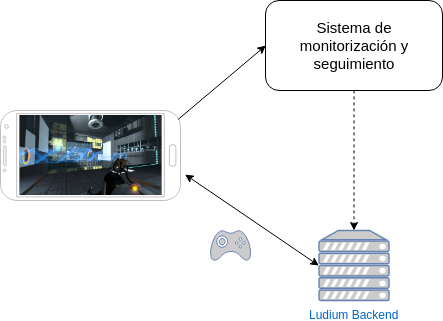
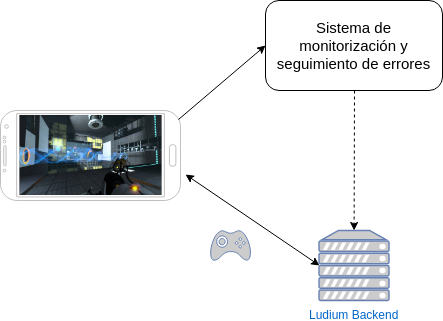
changes

diff --git a/introduccion.tex b/introduccion.tex
@@ -10,9 +10,9 @@
 
 Este proyecto es un Trabajo de Final de Grado de la modalidad B de la especialidad Tecnologías de la Información. El presente trabajo se hace en colaboración con la empresa LudiumLab S.L. la cual es propietaria y creadora del servicio de cloud gaming Play Everywhere. Este servicio consiste en permitir a sus usuarios jugar a juegos diseñados para Windows PC desde otros dispositivos como podrían ser smartphones, tabletas o navegadores web. 
 
-Dado que la empresa da servicio a dispositivos ubicuos, tiene la necesidad de recolectar y procesar alertas para que sus programadores corrijan comportamientos anómalos de la aplicación que se ejecuta en dichos dispositivos. Por lo que este trabajo será un caso de estudio para dar solución a la problemática de la empresa de recolectar y procesar alertas para darle información de valor a sus programadores.
+Dado que la empresa da servicio a dispositivos ubicuos, tiene la necesidad de recolectar y procesar eventos para que sus programadores corrijan comportamientos anómalos de la aplicación que se ejecuta en dichos dispositivos. Por lo que este trabajo será un caso de estudio para dar solución a la problemática de la empresa de recolectar y procesar eventos para darle información de valor a sus programadores.
 
-En la Figura \ref{fig:intro} se puede ver como un dispositivo ubicuo está jugando a un videojuego diseñado para Windows PC y se lo sirve el Backend de Ludium, este flujo de datos es el existente en la empresa. En la Figura \ref{fig:intro} también se ve otro flujo de datos que va del dispositivo ubicuo al Sistema de monitorización y seguimiento de errores, este flujo de datos es el que se va desarrollar en este trabajo. Existe un flujo de datos entre el Sistema de monitorización y seguimiento de errores, y el Backend de Ludium puesto que el sistema que se va a desarrollar se ha de integrar con ciertas partes del Backend de Ludium.
+En la Figura \ref{fig:intro} se puede ver como un dispositivo ubicuo está corriendo un videojuego diseñado para Windows PC, este videojuego realmente lo corre el Backend de Ludium y envía el video y el audio al dispositivo, el dispositivo ubicuo envía las acciones a realizar en el videojuego al Backend de Ludium, este flujo de datos es el existente en la empresa. En la Figura \ref{fig:intro} también se ve otro flujo de datos que va del dispositivo ubicuo al Sistema de monitorización y seguimiento de errores, este flujo de datos es el que se va desarrollar en este trabajo. Existe un flujo de datos entre el Sistema de monitorización y seguimiento de errores, y el Backend de Ludium puesto que el sistema que se va a desarrollar se ha de integrar con ciertas partes del Backend de Ludium.
 
 \section{Contexto}
 Las aplicaciones ubicuas \cite{Tfg:ubiquitous} se han convertido ya en una constante en la vida diaria. En especial las aplicaciones dirigidas a los smartphones. Cada día aparecen nuevas aplicaciones que hacen que la informática se integre en el entorno de la persona, apareciendo en cualquier lugar y en cualquier momento. Este hecho genera nuevos retos para los desarrolladores, como pudiera ser la detección y seguimiento de errores que puedan producirse en tales aplicaciones. Las aplicaciones ubicuas hoy día pueden ejecutarse en un gran número de dispositivos. Este trabajo se centrará en los smartphones y en especial en aquellos que ejecutan Android como sistema operativo.
@@ -29,7 +29,7 @@ Se encuentran dos arquitecturas de Big Data distinguidas que aplican las técnic
 
 Una es la arquitectura Lambda \cite{Tfg:lambda}, la cual integra las dos técnicas. Consta de tres capas lógicas, una capa de Batch Processing, otra de Stream Processing y una última capa donde se sirven los datos transformados.
 
-La otra es la arquitectura Kappa \cite{Tfg:kappa}, en la cual se utiliza únicamente Stream Processing. Consta de tres capas lógicas, una capa de Stream Processing, otra de almacenamiento persistente de datos y una última capa donde se sirven los datos transformados.
+La otra es la arquitectura Kappa \cite{Tfg:kappa}, en la cual se utiliza únicamente Stream Processing. Consta de tres capas lógicas, una capa de Stream Processing, otra de almacenamiento persistente de datos sin transformar y una última capa donde se sirven los datos transformados.
 
 \section{Descripción de los sistemas de alertas existentes en la empresa}
 En la empresa no existe un sistema de alertas como tal, pero sí que existen servidores con software de seguimiento de incidencias y servidores de búsqueda donde almacenar los datos procesados. En concreto, el software de seguimiento de incidencias que se utiliza es JIRA\cite{Tfg:jira} y el servidor de búsqueda Elastic Search\cite{Tfg:elasticsearch}. El sistema se integra tanto con JIRA como con Elastic Search.
@@ -39,5 +39,5 @@ En la empresa no existe un sistema de alertas como tal, pero sí que existen ser
 \input{alcance}
 
 \section{Estado del arte}
-En esta sección se muestra el estado del arte de dos partes fundamentales del sistema. Por un lado, la recolección de eventos en Android, y por otro el procesado de eventos. Al final de las sección, se muestran las conclusiones extraídas para la creación del sistema.
+En esta sección se muestra el estado del arte de dos partes fundamentales del sistema. Por un lado, la recolección de eventos en Android, y por otro el procesado de eventos. Al final de la sección, se muestran las conclusiones extraídas para la creación del sistema.
 \input{soa}

diff --git a/reproduccion.tex b/reproduccion.tex
@@ -8,10 +8,10 @@ Para adquirir esta herramienta se ha de rellenar un formulario en la siguiente w
 
 \href{https://www.confluent.io/download/}{https://www.confluent.io/download}
 
-Se descargará en el home para simplificar la reproducción.
+Se descargará en el home de Ubuntu para simplificar la reproducción.
 
 \subsection{Instalación de las herramientas}
-La herramienta será instalada en el home para simplificar la reproducción, suponiendo que la herramienta está en el home y suponiendo la versión 4.1.1-2.11:
+La herramienta será instalada en el home de Ubuntu para simplificar la reproducción, suponiendo que la herramienta está en el home y suponiendo la versión 4.1.1-2.11:
 
 \begin{lstlisting}[language=Bash]
 tar xzf confluent-oss-4.1.1-2.11.tar.gz
@@ -124,7 +124,7 @@ input {
   kafka {
     bootstrap_servers => "localhost:9092"
     topics => ["log", "crashout"]
-    group_id => "truman-logstash"
+    group_id => "tfg-logstash"
     codec => json
     decorate_events => true
   }

diff --git a/planini.tex b/planini.tex
@@ -23,7 +23,7 @@ En este Capítulo se muestra la planificación que se hizo antes de iniciar el p
 \end{itemize}
 
 
-\textbf{Integración del sistema con JIRA:} El sistema se ha de integrar con JIRA para ofrecer información de valor a la empresa. Ésta integración se tendrá que hacer una vez el sistema de procesado de eventos esté en marcha y produzca datos. A nivel de recursos, esta tarea necesita una licencia de JIRA. Esta tarea se puede dividir en las subtareas siguientes:
+\textbf{Integración del sistema con JIRA:} El sistema se ha de integrar con JIRA para ofrecer información de valor a la empresa. Esta integración se tendrá que hacer una vez el sistema de procesado de eventos esté en marcha y produzca datos. A nivel de recursos, esta tarea necesita una licencia de JIRA. Esta tarea se puede dividir en las subtareas siguientes:
 \begin{itemize}
 	
 	\item \textbf{Aprendizaje:} Documentarse sobre cómo consumir datos generados por el sistema en JIRA.

diff --git a/resumen.tex b/resumen.tex
@@ -5,5 +5,5 @@
 	\\
 	Las aplicaciones ubicuas se han convertido ya en una constante en la vida diaria. En especial las aplicaciones dirigidas a los smartphones. Cada día aparecen nuevas aplicaciones que hacen que la informática se integre en el entorno de la persona, apareciendo en cualquier lugar y en cualquier momento, este hecho genera nuevos retos para los desarrolladores, como pudiera ser la detección y seguimiento de errores que puedan producirse en tales aplicaciones. 
 	\\
-	Las aplicaciones ubicuas hoy día pueden ejecutarse en un gran número de dispositivos, éste trabajo se centrará en los smartphones y en especial en aquellos que ejecutan Android como sistema operativo.
+	Las aplicaciones ubicuas hoy día pueden ejecutarse en un gran número de dispositivos, este trabajo se centrará en los smartphones y en especial en aquellos que ejecutan Android como sistema operativo.
 \end{abstract}

diff --git a/despliegue.tex b/despliegue.tex
@@ -155,7 +155,7 @@ Se van a desplegar 3 máquinas r4.xlarge para Elastic Search ya que se quiere co
 
 En la tabla \ref{tabla:resumenservicios} se pueden ver el resumen de los servicios a desplegar en AWS. La columna \textit{Módulo} nos dice el módulo del sistema que se despliega, la columna \textit{Aplicación} nos marca la aplicación que se va a desplegar, la columna \textit{Servicio} no dice el servicio de AWS que se va a utilizar, la columna \textit{Detalle} nos informa sobre que servicio en concreto se va a desplegar y la columna \textit{Número} no dice el número de instancias que se van a desplegar. Cada fila corresponde a los servicios a desplegar.
 
-\subsection{Networking}\label{cap:networking}
+\subsection{Vista general del despliegue}\label{cap:networking}
 
 \begin{figure}[!htb]
 	\includegraphics[width=\linewidth] {Moduloss-netdeploy.png}
